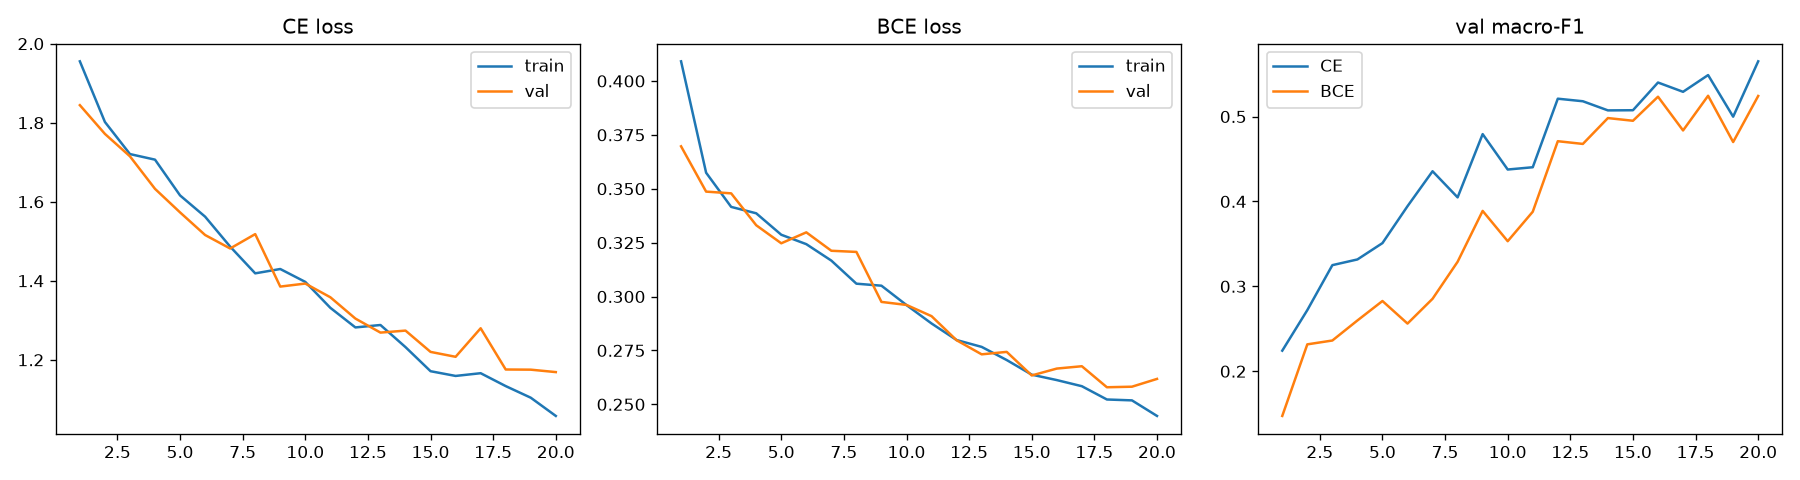
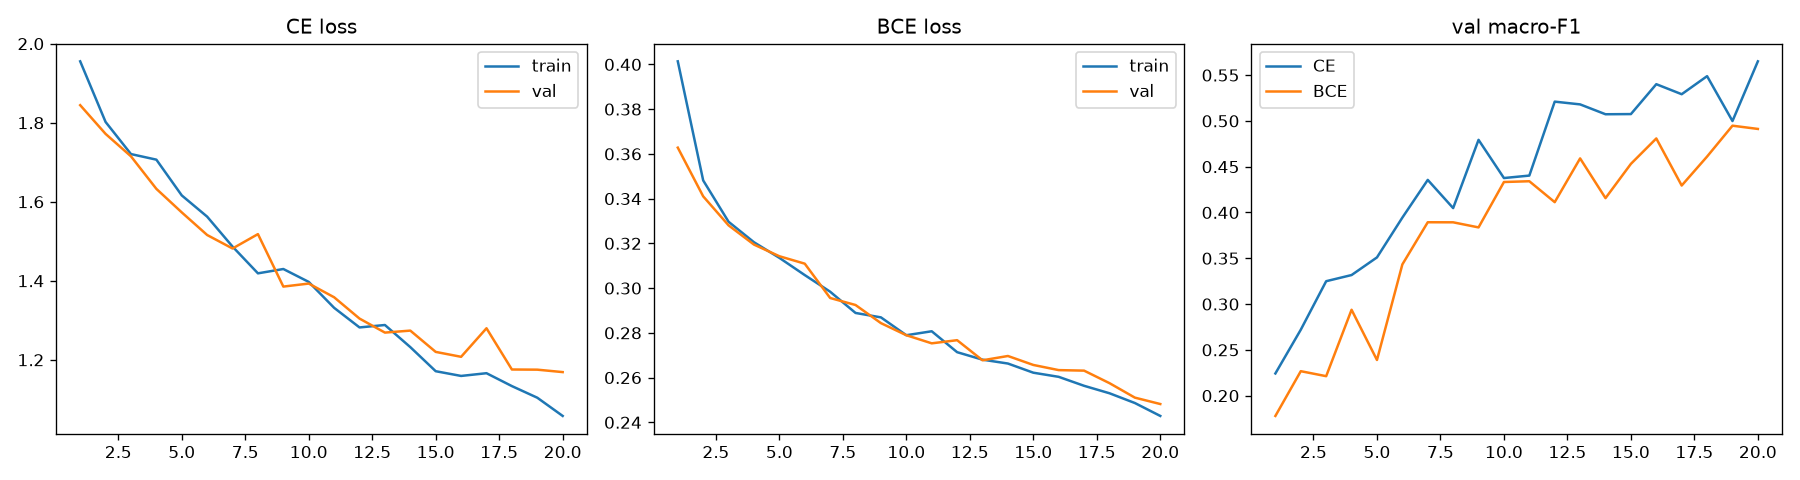
Ablation: BCE on cleaned data, F1=0.501 vs CE 0.565

diff --git a/EXPERIMENTS.md b/EXPERIMENTS.md
@@ -307,3 +307,15 @@ The model is heavily overfit (train_loss = 0.009, val_loss = 0.577, gap = 0.568)
 **Result:** macro_F1=0.484 (vs baseline_v2 0.565) → **−0.081**
 **Lowest-recall class:** vanet
 **Notes:** Combining two regularizers on small data caused underfitting. kamyunet recall collapsed to 0.12. Since the baseline already showed a small gap (0.111), additional regularization only hurt. This is a negative result — a valid scientific finding: **more regularization ≠ better performance** when the model is already well-regularized.
+
+## — Ablation: BCE on cleaned data (bce_v2)
+
+**Changed:** loss CE → BCE on cleaned dataset
+**Fixed:** CNNBaseline, seed 42, AdamW lr=1e-3, 20 epochs, batch 32, no aug, no dropout
+**Config:** run `bce_v2` (results/experiments.csv)
+**Result:** macro_F1=0.501 (vs baseline_v2 0.565) → **−0.064**
+**Delta vs v1 BCE (0.525):** −0.024
+
+**Notes:** BCE confirms its consistent underperformance on this single-label task, both on the old data (−0.040) and cleaned data (−0.064). The gap exceeds the noise threshold (~0.03). kamyunet recall collapsed to 0.05, continuing the BCE pattern of hurting hard classes. As hypothesized, the 7-zero / 1-one BCE target dilutes the positive signal and class competition is removed; this is not fixed by cleaning the data.
+
+**Conclusion:** CE remains the right choice for this single-label problem. Cleaning the data did not change the relative ranking of losses.
